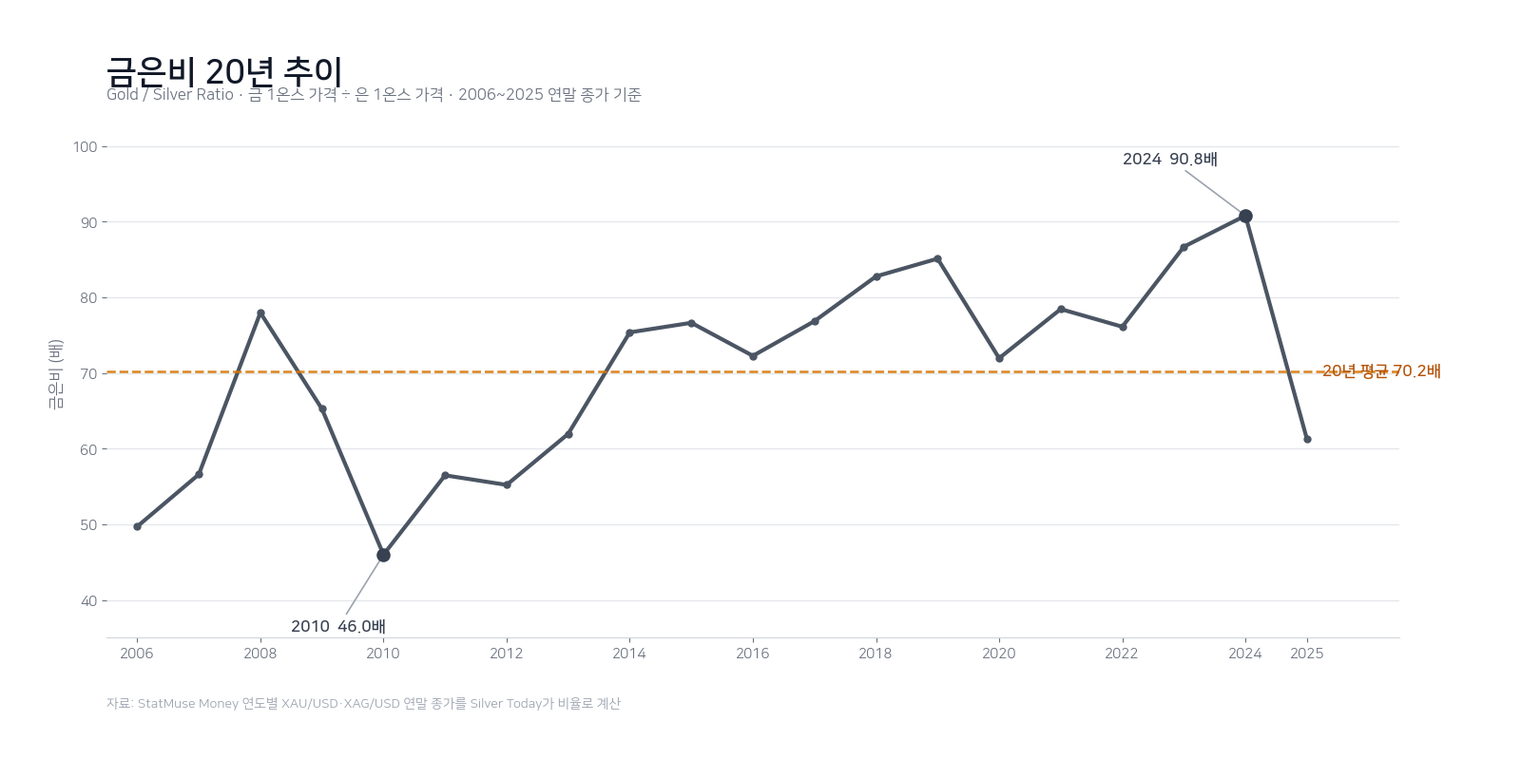
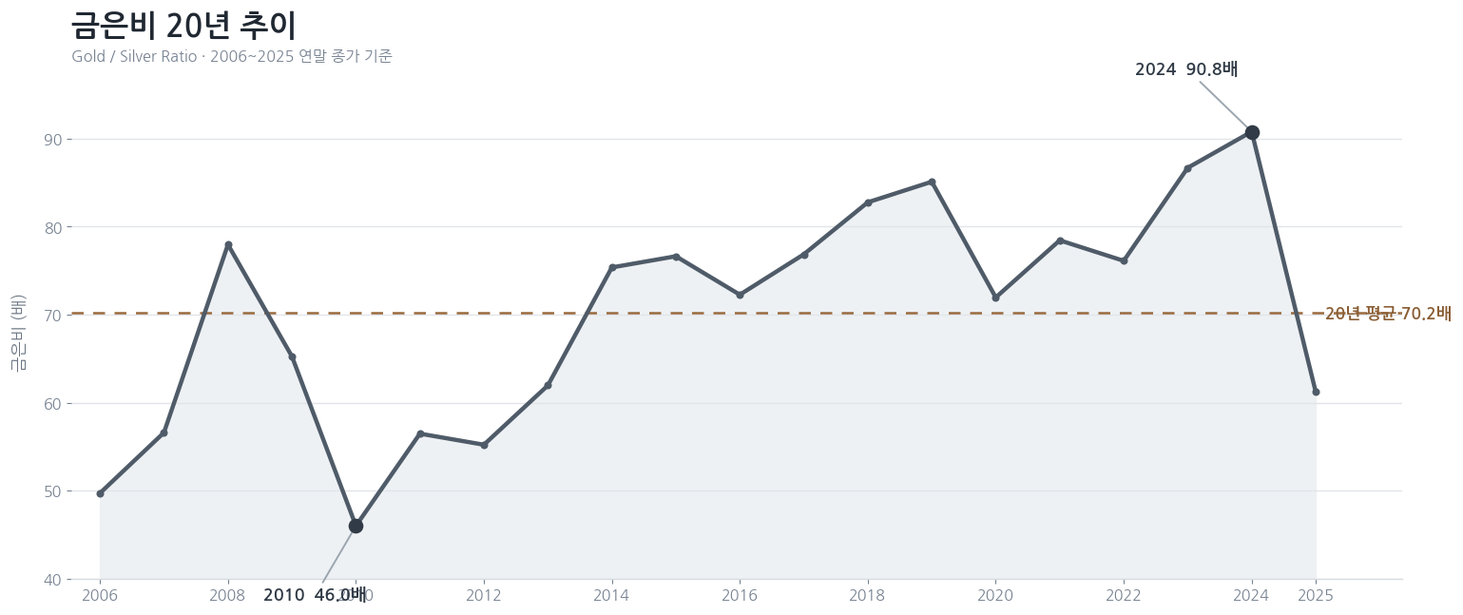
Add files via upload

diff --git a/index.html b/index.html
@@ -1,14 +1,14 @@
 <!DOCTYPE html><html lang="ko"><head><meta charset="UTF-8"><meta name="viewport" content="width=device-width,initial-scale=1.0">
 <meta name="naver-site-verification" content="7abe1a38036b67a5e8ea541d7a32755246369bef" />
 <title>오늘 은시세 | 실버바 100g·500g·1kg 가격·최대낙폭·은 ETF</title><meta name="description" content="오늘 은 1돈과 실버바 100g·500g·1kg 환산가격, 부가세 체감가, 은 최대낙폭, 금·은 장기수익률과 ETF 정보를 확인하세요."><meta name="robots" content="index,follow">
-<link rel="canonical" href="https://silver-today.com/"><meta property="og:type" content="website"><meta property="og:locale" content="ko_KR"><meta property="og:title" content="오늘 은시세 | 실버바 100g·500g·1kg 가격·최대낙폭·은 ETF"><meta property="og:description" content="오늘 은 1돈과 실버바 100g·500g·1kg 환산가격, 부가세 체감가, 은 최대낙폭, 금·은 장기수익률과 ETF 정보를 확인하세요."><meta property="og:url" content="https://silver-today.com/"><link rel="stylesheet" href="/styles.css?v=20260826-8"></head><body>
+<link rel="canonical" href="https://silver-today.com/"><meta property="og:type" content="website"><meta property="og:locale" content="ko_KR"><meta property="og:title" content="오늘 은시세 | 실버바 100g·500g·1kg 가격·최대낙폭·은 ETF"><meta property="og:description" content="오늘 은 1돈과 실버바 100g·500g·1kg 환산가격, 부가세 체감가, 은 최대낙폭, 금·은 장기수익률과 ETF 정보를 확인하세요."><meta property="og:url" content="https://silver-today.com/"><link rel="stylesheet" href="/styles.css?v=20260828-39"></head><body class="home-page">
 <header class="site-header"><div class="wrap nav"><a class="brand" href="/">오늘 <span>은시세</span></a><nav class="navlinks"><a href="/silver-risk.html">은 위험·수익률</a><a href="/wall-street-indicators.html">월가 지표</a><a href="/silver-etf.html">은 ETF·ETN</a><a href="/silver-calculator.html">계산기</a></nav></div></header>
 <main class="wrap">
-<section class="hero"><h1>오늘 은값,<br>가격부터 위험까지 한눈에</h1><p class="lead">국제 은시세를 원화로 환산하고, 장기 최대낙폭·금과의 비교·은 투자상품까지 함께 봅니다.</p><div class="hero-note">현재 시세는 최대 1시간, 기간별 통계는 하루~이틀 간격으로 갱신되며 이전 정상 데이터를 보존합니다 · 국제시세 환산 참고가격 · 실물 거래가는 부가세·공임 등으로 달라질 수 있습니다.</div>
+<section class="hero home-hero"><div class="hero-kicker"><span class="hero-kicker-dot"></span>SILVER TODAY · LIVE MARKET</div><h1>오늘 은값,<br>가격부터 위험까지 한눈에</h1><p class="lead">국제 은시세를 원화로 환산하고, 장기 최대낙폭·금과의 비교·은 투자상품까지 함께 봅니다.</p><div class="hero-note">현재 시세는 최대 1시간, 기간별 통계는 하루~이틀 간격으로 갱신되며 이전 정상 데이터를 보존합니다 · 국제시세 환산 참고가격 · 실물 거래가는 부가세·공임 등으로 달라질 수 있습니다.</div>
 <nav class="chips"><a class="chip" href="#risk">최대낙폭</a><a class="chip" href="#gold-silver">금 vs 은</a><a class="chip" href="#fed">미국 금리인상기</a><a class="chip" href="/wall-street-indicators.html">월가 지표</a><a class="chip" href="/silver-etf.html">은 ETF·ETN</a><a class="chip" href="#calculator">계산기</a></nav></section>
 
-<section id="today" class="grid">
-<article class="card wide"><div class="eyebrow">오늘의 은 가격 · 원화 환산</div><div class="price-hero"><div class="soft"><div class="label">은 1돈 · 3.75g</div><div id="priceDonHero" class="big">불러오는 중</div><div class="small muted">국제 은가격 × 원·달러 환율 · 부가세/공임 미포함</div></div><div class="soft"><div class="label">오늘 한눈에</div><div id="snapshotText" class="value" style="font-size:18px">변동률 계산 중</div><div id="apiStatus" class="api-status">데이터 연결 중</div></div></div>
+<section id="today" class="grid home-today">
+<article class="card wide market-card"><div class="eyebrow">오늘의 은 가격 · 원화 환산</div><div class="price-hero"><div class="soft"><div class="label">은 1돈 · 3.75g</div><div id="priceDonHero" class="big">불러오는 중</div><div class="small muted">국제 은가격 × 원·달러 환율 · 부가세/공임 미포함</div></div><div class="soft"><div class="label">오늘 한눈에</div><div id="snapshotText" class="value" style="font-size:18px">변동률 계산 중</div><div id="apiStatus" class="api-status">데이터 연결 중</div></div></div>
 <div class="metrics"><div class="metric"><small>1일</small><strong id="change1d">—</strong></div><div class="metric"><small>1주</small><strong id="change1w">—</strong></div><div class="metric"><small>1개월</small><strong id="change1m">—</strong></div><div class="metric"><small>1년</small><strong id="change1y">—</strong></div></div>
 <div class="bar-section"><div class="section-head"><div><div class="label">실버바 기준 환산가격</div><div class="small muted">국내에서 많이 보는 100g · 500g · 1kg 기준</div></div><a class="chip" href="/silver-bar-guide.html">실버바 가격 구조 →</a></div>
 <div class="bar-grid">
@@ -29,25 +29,25 @@
 <div class="source source-inline"><span class="source-row">국제 은시세 <strong id="xagPrice">—</strong>/oz · USD/KRW <strong id="usdKrw">—</strong></span><span class="source-row">최근 업데이트 <span id="updatedAt">—</span></span></div></article>
 </section>
 
-<section class="section"><div class="kicker">WHY SILVER TODAY</div><h2>은값 숫자 하나보다, 실제 투자자가 궁금한 다음 질문까지</h2><div class="insight-strip"><a class="insight" href="/silver-bar-guide.html"><strong>실버바 실제 구매가는 왜 더 비쌀까?</strong><span>국제시세 → 부가세 10% → 판매마진 구조</span></a><a class="insight" href="/silver-risk.html"><strong>은은 과거에 얼마나 크게 빠졌을까?</strong><span>5·10·20년 최대낙폭과 고점·저점</span></a><a class="insight" href="/silver-vs-gold.html"><strong>금과 은, 장기 보유 결과는 달랐을까?</strong><span>수익률뿐 아니라 MDD까지 같은 기준으로 비교</span></a></div></section><section class="section wallstreet-cta-wrap"><a class="wallstreet-feature" href="/wall-street-indicators.html"><div><span class="wallstreet-label">월가 지표 7가지</span><strong>금·은 가격과 함께 보는 시장 지표</strong><span>금은비 · 실질금리 · 달러 · CFTC · ETF 흐름 · 은 재고</span></div><b>월가 지표 보기 →</b></a></section><section id="risk" class="section"><div class="section-head"><div><div class="eyebrow">SILVER RISK</div><h2>은은 과거에 얼마나 크게 <span class="keep-word">떨어졌을까?</span></h2></div><a class="chip" href="/silver-risk.html">자세히 보기 →</a></div>
+<section class="section story-section"><div class="kicker">WHY SILVER TODAY</div><h2>은값 숫자 하나보다, 실제 투자자가 궁금한 다음 질문까지</h2><div class="insight-strip"><a class="insight" href="/silver-bar-guide.html"><strong>실버바 실제 구매가는 왜 더 비쌀까?</strong><span>국제시세 → 부가세 10% → 판매마진 구조</span></a><a class="insight" href="/silver-risk.html"><strong>은은 과거에 얼마나 크게 빠졌을까?</strong><span>5·10·20년 최대낙폭과 고점·저점</span></a><a class="insight" href="/silver-vs-gold.html"><strong>금과 은, 장기 보유 결과는 달랐을까?</strong><span>수익률뿐 아니라 MDD까지 같은 기준으로 비교</span></a></div></section><section class="section wallstreet-cta-wrap"><a class="wallstreet-feature" href="/wall-street-indicators.html"><div><span class="wallstreet-label">월가 지표 7가지</span><strong>금·은 가격과 함께 보는 시장 지표</strong><span>금은비 · 실질금리 · 달러 · CFTC · ETF 흐름 · 은 재고</span></div><b>월가 지표 보기 →</b></a></section><section id="risk" class="section risk-section home-panel"><div class="section-head"><div><div class="eyebrow">SILVER RISK</div><h2>은은 과거에 얼마나 크게 <span class="keep-word">떨어졌을까?</span></h2></div><a class="chip" href="/silver-risk.html">자세히 보기 →</a></div>
 <p>최대낙폭(MDD)은 특정 기간의 고점에서 이후 저점까지 가장 크게 하락한 비율입니다. 수익률과 함께 보면 은의 변동성을 더 현실적으로 이해할 수 있습니다.</p>
 <div class="risk-cards"><div class="risk"><span class="label">최근 5년 최대낙폭</span><strong id="mdd5">계산 중</strong><span id="mdd5date" class="small muted">—</span></div><div class="risk"><span class="label">최근 10년 최대낙폭</span><strong id="mdd10">계산 중</strong><span id="mdd10date" class="small muted">—</span></div><div class="risk"><span class="label">최근 20년 최대낙폭</span><strong id="mdd20">계산 중</strong><span id="mdd20date" class="small muted">—</span></div></div>
 <div class="method-note">계산 기준: XAG/USD 일별 평균가격에서 각 기간의 이전 고점 대비 이후 저점의 최대 하락률을 계산합니다. 데이터 빈도·종가/평균가 기준에 따라 다른 사이트와 수치가 조금 다를 수 있습니다. <a href="/silver-risk.html" style="text-decoration:underline">계산법 자세히 보기</a></div></section>
 
-<section id="gold-silver" class="section"><div class="section-head"><div><div class="eyebrow">GOLD VS SILVER</div><h2>20년간 금과 은, 누가 더 올랐을까?</h2></div><div class="tabs"><button class="tab compare-range" data-years="5">5년</button><button class="tab compare-range" data-years="10">10년</button><button class="tab compare-range active" data-years="20">20년</button></div></div>
+<section id="gold-silver" class="section compare-section home-panel"><div class="section-head"><div><div class="eyebrow">GOLD VS SILVER</div><h2>20년간 금과 은, 누가 더 올랐을까?</h2></div><div class="tabs"><button class="tab compare-range" data-years="5">5년</button><button class="tab compare-range" data-years="10">10년</button><button class="tab compare-range active" data-years="20">20년</button></div></div>
 <div class="risk-cards"><div class="risk"><span class="label">은 누적 변화</span><strong id="silverReturn">—</strong></div><div class="risk"><span class="label">금 누적 변화</span><strong id="goldReturn">—</strong></div><div class="risk"><span class="label">변동성 힌트</span><strong id="riskCompare" style="font-size:18px">—</strong></div></div>
 <div class="read-next"><a class="chip" href="/silver-vs-gold.html">금 vs 은 비교 해설 읽기 →</a></div><div class="chartbox"><canvas id="compareChart" aria-label="금과 은 장기 누적수익률 비교 차트"></canvas><div class="legend"><span><i class="dot silver"></i>은</span><span><i class="dot gold"></i>금</span><span>시작값=100</span></div></div></section>
 
-<section id="fed" class="section"><div class="eyebrow">FED RATE-HIKE CYCLES</div><h2>미국 금리인상기, 금과 은은 어떻게 움직였을까?</h2><p>각 금리인상 사이클 시작값을 100으로 맞춰 금·은의 가격 변화를 비교합니다. “금리 인상 = 귀금속 무조건 하락”이라는 단순한 가정이 실제로 맞았는지 확인할 수 있습니다.</p>
+<section id="fed" class="section fed-section home-panel"><div class="eyebrow">FED RATE-HIKE CYCLES</div><h2>미국 금리인상기, 금과 은은 어떻게 움직였을까?</h2><p>각 금리인상 사이클 시작값을 100으로 맞춰 금·은의 가격 변화를 비교합니다. “금리 인상 = 귀금속 무조건 하락”이라는 단순한 가정이 실제로 맞았는지 확인할 수 있습니다.</p>
 <div class="tabs"><button class="tab fed-cycle" data-cycle="2004-2006">2004~2006</button><button class="tab fed-cycle" data-cycle="2015-2018">2015~2018</button><button class="tab fed-cycle active" data-cycle="2022-2023">2022~2023</button></div>
 <div class="chartbox"><div id="fedSummary" class="small muted">데이터 계산 중</div><canvas id="fedChart" aria-label="미국 금리인상기 금과 은 비교 차트"></canvas><div class="legend"><span><i class="dot silver"></i>은</span><span><i class="dot gold"></i>금</span><span>사이클 시작=100</span></div></div>
 <div class="source">금리인상 구간은 미국 연방준비제도(Federal Reserve) 공식 금리 변경일을 기준으로 구분했습니다.</div><div class="read-next"><a class="chip" href="/fed-silver-gold.html">금리인상기 금·은 분석 전체 보기 →</a></div></section>
 
-<section id="gold-silver-ratio" class="section ratio-section">
+<section id="gold-silver-ratio" class="section ratio-section home-panel ratio-panel">
   <div class="section-head"><div><div class="eyebrow">GOLD / SILVER RATIO</div><h2>금 1온스로 은을 몇 온스 살 수 있을까?</h2></div><a class="chip" href="/wall-street-indicators.html">월가 지표 전체 보기 →</a></div>
   <p>금은비는 <strong>금 1온스 가격 ÷ 은 1온스 가격</strong>으로 계산합니다. 비율이 높을수록 같은 금 1온스로 더 많은 은을 살 수 있다는 뜻으로, 은이 금보다 상대적으로 약했던 구간을 확인할 때 쓰입니다.</p>
   <div class="ratio-chart-card">
-    <img src="/assets/gold-silver-ratio-20y.png" alt="2006년부터 2025년까지 금은비 20년 추이 차트" loading="lazy" width="1600" height="819">
+    <img src="/assets/gold-silver-ratio-20y.png?v=20260828-39" alt="2006년부터 2025년까지 금은비 20년 추이 차트" loading="lazy" width="1539" height="647">
     <div class="ratio-stats">
       <div><span>20년 평균</span><strong>70.2배</strong></div>
       <div><span>연말 기준 최고</span><strong>90.8배 <small>2024</small></strong></div>
@@ -58,12 +58,12 @@
   </div>
 </section>
 
-<section class="section"><div class="section-head"><div><div class="eyebrow">HOW TO INVEST</div><h2>은에 투자하는 방법</h2></div><a class="chip" href="/silver-etf.html">국내·미국 상품 전체 가이드 →</a></div>
+<section class="section invest-section"><div class="section-head"><div><div class="eyebrow">HOW TO INVEST</div><h2>은에 투자하는 방법</h2></div><a class="chip" href="/silver-etf.html">국내·미국 상품 전체 가이드 →</a></div>
 <div class="page-links"><a class="page-link" href="/silver-etf.html"><strong>국내 ETF·ETN</strong><span>KODEX 은선물(H), 레버리지·인버스 ETN 등</span></a><a class="page-link" href="/silver-etf.html#us"><strong>미국 은 ETF·Trust</strong><span>SLV, SIVR, PSLV, AGQ, ZSL, SIL, SILJ 등</span></a><a class="page-link" href="/silver-risk.html"><strong>은 투자 위험</strong><span>최대낙폭·금과의 장기 비교·금리인상기</span></a></div></section>
 
-<section id="calculator" class="section card"><div class="eyebrow">SILVER CALCULATOR</div><h2>은값 계산기</h2><p>오늘 국제시세 환산 기준으로 원하는 무게의 은값을 계산합니다.</p><div class="calc-row"><input id="amount" type="number" value="1" min="0" step="0.1" aria-label="수량"><select id="unit" aria-label="단위"><option value="3.75">돈</option><option value="1">g</option><option value="100">100g</option><option value="1000">kg</option></select><button id="calculateBtn">계산</button></div><div class="result">예상 환산가격 <strong id="calcValue">시세 로딩 중</strong></div></section>
+<section id="calculator" class="section card calculator-card"><div class="eyebrow">SILVER CALCULATOR</div><h2>은값 계산기</h2><p>오늘 국제시세 환산 기준으로 원하는 무게의 은값을 계산합니다.</p><div class="calc-row"><input id="amount" type="number" value="1" min="0" step="0.1" aria-label="수량"><select id="unit" aria-label="단위"><option value="3.75">돈</option><option value="1">g</option><option value="100">100g</option><option value="1000">kg</option></select><button id="calculateBtn">계산</button></div><div class="result">예상 환산가격 <strong id="calcValue">시세 로딩 중</strong></div></section>
 
-<section class="section"><h2>Silver Today가 보여주는 것</h2><p>단순히 오늘 은값만 표시하지 않습니다. 은 1돈·100g·500g·1kg 환산가격, 장기 최대낙폭, 금과 은의 장기 성과, 미국 금리인상기 움직임, 국내·미국 은 투자상품을 한곳에서 확인할 수 있도록 구성했습니다.</p><div class="notice">※ 모든 가격과 분석은 정보 제공용입니다. 실제 실버바 가격에는 부가가치세, 제조·가공비, 유통비, 판매처 마진 등이 포함될 수 있습니다. ETF·ETN은 상품 구조, 환율, 롤오버, 괴리율, 레버리지 효과 등에 따라 은 현물과 다른 성과가 날 수 있습니다.</div></section>
+<section class="section quiet-section"><h2>Silver Today가 보여주는 것</h2><p>단순히 오늘 은값만 표시하지 않습니다. 은 1돈·100g·500g·1kg 환산가격, 장기 최대낙폭, 금과 은의 장기 성과, 미국 금리인상기 움직임, 국내·미국 은 투자상품을 한곳에서 확인할 수 있도록 구성했습니다.</p><div class="notice">※ 모든 가격과 분석은 정보 제공용입니다. 실제 실버바 가격에는 부가가치세, 제조·가공비, 유통비, 판매처 마진 등이 포함될 수 있습니다. ETF·ETN은 상품 구조, 환율, 롤오버, 괴리율, 레버리지 효과 등에 따라 은 현물과 다른 성과가 날 수 있습니다.</div></section>
 </main>
 
 <footer class="footer"><div class="wrap">

diff --git a/styles.css b/styles.css
@@ -97,3 +97,121 @@ input,select,button{font:inherit;border-radius:12px;border:1px solid var(--line)
   .ratio-stats{grid-template-columns:1fr}
   .ratio-read{grid-template-columns:1fr;gap:4px}
 }
+
+/* V39 visual polish · 2026-08-28
+   Goal: keep Silver Today calm and trustworthy while adding stronger visual rhythm.
+   JS DOM IDs and API behavior are intentionally untouched. */
+body.home-page{background:linear-gradient(180deg,#f7f8f9 0,#f4f6f8 420px,#f4f6f8 100%)}
+.home-page .site-header{position:relative;z-index:5}
+.home-page .site-header .nav{padding:7px 0}
+.home-page .brand{font-size:17px}.home-page .navlinks a{transition:color .18s ease}.home-page .navlinks a:hover{color:var(--text)}
+
+.home-hero{position:relative;overflow:hidden;margin-top:12px;padding:38px 34px 28px;border:1px solid #dfe4e9;border-radius:28px;background:linear-gradient(122deg,#ffffff 0%,#edf1f4 53%,#fafbfc 100%);box-shadow:0 20px 55px rgba(29,39,49,.07)}
+.home-hero:after{content:"";position:absolute;right:-90px;top:-150px;width:360px;height:360px;border-radius:50%;background:radial-gradient(circle at 35% 35%,rgba(255,255,255,.95),rgba(187,196,205,.24) 38%,rgba(255,255,255,0) 70%);pointer-events:none}
+.home-hero>*{position:relative;z-index:1}
+.hero-kicker{display:flex;align-items:center;gap:7px;margin-bottom:12px;color:#64707c;font-size:11px;font-weight:950;letter-spacing:.12em}
+.hero-kicker-dot{width:7px;height:7px;border-radius:50%;background:#66717e;box-shadow:0 0 0 4px rgba(102,113,126,.11)}
+.home-hero h1{max-width:720px;font-size:clamp(36px,6vw,54px);letter-spacing:-2.1px}
+.home-hero .lead{max-width:720px;font-size:15px;line-height:1.6;color:#505b67}
+.home-hero .hero-note{max-width:820px;line-height:1.55;color:#7a8490}
+.home-hero .chips{padding-top:20px}
+.home-hero .chip{background:rgba(255,255,255,.72);border-color:rgba(205,212,219,.9);backdrop-filter:blur(5px)}
+.home-hero .chip:hover{background:#fff;border-color:#bfc7cf}
+
+.home-today{margin-top:18px}
+.market-card{position:relative;overflow:hidden;border-color:#dfe4e8;box-shadow:0 20px 55px rgba(30,41,52,.08);padding:22px}
+.market-card:before{content:"";position:absolute;left:0;right:0;top:0;height:4px;background:linear-gradient(90deg,#c9d0d7,#66717e 48%,#dce1e6)}
+.market-card .price-hero>.soft:first-child{position:relative;overflow:hidden;background:linear-gradient(135deg,#242b33,#3d4854);color:#fff;box-shadow:inset 0 1px rgba(255,255,255,.08)}
+.market-card .price-hero>.soft:first-child:after{content:"";position:absolute;right:-46px;top:-72px;width:170px;height:170px;border-radius:50%;border:28px solid rgba(255,255,255,.045)}
+.market-card .price-hero>.soft:first-child .label,.market-card .price-hero>.soft:first-child .muted{color:#cbd2d9}
+.market-card .price-hero>.soft:first-child .big{margin-top:2px;text-shadow:0 1px 0 rgba(0,0,0,.08)}
+.market-card .price-hero>.soft:nth-child(2){background:#f1f3f5;border:1px solid #e4e8ec}
+.market-card .metric{border:1px solid #e6eaee;background:#fafbfc}
+.market-card .metric strong{font-size:17px}
+.bar-card{border:1px solid transparent;transition:transform .18s ease,border-color .18s ease,background .18s ease}
+.bar-card:hover{transform:translateY(-1px);border-color:#d9dee4;background:#f8fafb}
+.premium-card{background:linear-gradient(135deg,#fbfcfd,#f0f3f6);border-color:#dfe4e9}
+.premium-highlight{background:linear-gradient(135deg,#fff4e6,#ffecd2);box-shadow:inset 0 0 0 1px rgba(226,166,93,.08)}
+
+.story-section{margin-top:38px}
+.story-section .kicker{color:#56616d}
+.story-section h2{max-width:720px;font-size:27px;line-height:1.28}
+.insight{position:relative;min-height:95px;padding:18px 42px 18px 18px;transition:transform .18s ease,box-shadow .18s ease,border-color .18s ease}
+.insight:after{content:"→";position:absolute;right:17px;top:50%;transform:translateY(-50%);color:#9099a3;font-weight:900}
+.insight:hover{transform:translateY(-2px);border-color:#cbd2d9;box-shadow:0 12px 24px rgba(29,39,49,.06)}
+
+.wallstreet-cta-wrap{margin:30px 0 32px}
+.wallstreet-feature{position:relative;overflow:hidden;background:linear-gradient(125deg,#20262d 0%,#303944 62%,#46515d 100%);color:#fff;border:0;box-shadow:0 18px 42px rgba(25,34,43,.16);padding:24px 26px}
+.wallstreet-feature:after{content:"";position:absolute;width:220px;height:220px;border-radius:50%;right:-85px;top:-115px;border:34px solid rgba(255,255,255,.035)}
+.wallstreet-feature>div,.wallstreet-feature>b{position:relative;z-index:1}
+.wallstreet-feature strong{font-size:21px;letter-spacing:-.5px}
+.wallstreet-feature span{color:#cbd2da}
+.wallstreet-feature .wallstreet-label{color:#dce2e8;background:rgba(255,255,255,.09);border:1px solid rgba(255,255,255,.09)}
+.wallstreet-feature>b{color:#fff;font-size:13px}
+.wallstreet-feature:hover{border-color:transparent;transform:translateY(-2px);box-shadow:0 22px 48px rgba(25,34,43,.2)}
+
+.home-panel{position:relative;margin:34px 0;padding:28px;border-radius:24px}
+.risk-section{background:linear-gradient(135deg,#edf1f4,#f8fafb);border:1px solid #e0e5ea}
+.risk-section .risk{background:rgba(255,255,255,.86);border-color:#dfe4e9;box-shadow:0 8px 20px rgba(29,39,49,.035)}
+.risk-section .risk strong{font-size:32px;line-height:1.15;margin:4px 0}
+.risk-section .method-note{margin-top:12px;background:rgba(255,255,255,.65)}
+
+.compare-section{background:#fff;border:1px solid #e2e6ea;box-shadow:0 14px 35px rgba(29,39,49,.045)}
+.compare-section .risk{position:relative;overflow:hidden;background:#f8fafb}
+.compare-section .risk:nth-child(1):before,.compare-section .risk:nth-child(2):before{content:"";position:absolute;left:0;right:0;top:0;height:3px}
+.compare-section .risk:nth-child(1):before{background:#98a2ad}
+.compare-section .risk:nth-child(2):before{background:#b89556}
+.compare-section .chartbox{margin-top:16px}
+
+.fed-section{padding:28px 28px 30px;border-top:1px solid #dfe4e8;border-bottom:1px solid #dfe4e8;border-radius:0;background:linear-gradient(90deg,rgba(235,239,243,.45),rgba(255,255,255,.15),rgba(235,239,243,.45))}
+.fed-section>p{max-width:790px}
+.fed-section .tabs{margin-top:14px}
+
+.ratio-panel{background:linear-gradient(145deg,#252c34,#3a4550);color:#fff;border:0;box-shadow:0 18px 44px rgba(25,34,43,.14)}
+.ratio-panel .eyebrow{color:#bec7d0}.ratio-panel h2{color:#fff}.ratio-panel>p{color:#d4d9df}.ratio-panel>p strong{color:#fff}
+.ratio-panel .chip{background:rgba(255,255,255,.08);border-color:rgba(255,255,255,.15);color:#fff}
+.ratio-chart-card{background:#f9fafb;border:0;box-shadow:none;color:var(--text);padding:12px}
+.ratio-chart-card img{border:1px solid #e7eaee;background:#fff}
+.ratio-stats>div{background:#eef1f4}
+.ratio-read{background:#fff;border-left-color:#8b96a1}
+
+.invest-section{margin-top:36px}
+.invest-section .page-link{position:relative;transition:transform .18s ease,border-color .18s ease,box-shadow .18s ease}
+.invest-section .page-link:hover{transform:translateY(-2px);border-color:#cbd2d9;box-shadow:0 10px 24px rgba(29,39,49,.05)}
+.calculator-card{background:linear-gradient(135deg,#fff,#eef2f5);border-color:#dfe4e8;box-shadow:none}
+.quiet-section{padding:22px 0 8px;border-top:1px solid #dfe4e8}
+.quiet-section h2{font-size:20px;color:#323a43}.quiet-section p{font-size:13px;line-height:1.7}.quiet-section .notice{background:#eef1f4;border:1px solid #e0e5e9}
+
+@media(max-width:720px){
+  .home-hero{margin-top:8px;padding:27px 20px 20px;border-radius:22px}
+  .home-hero:after{right:-145px;top:-175px}
+  .home-hero h1{font-size:37px;line-height:1.1;letter-spacing:-1.6px}
+  .home-hero .lead{font-size:14px}
+  .home-hero .hero-note{font-size:11px}
+  .market-card{padding:15px;border-radius:20px}
+  .market-card .price-hero>.soft:first-child{padding:18px 16px}
+  .market-card .price-hero>.soft:first-child .big{font-size:39px}
+  .story-section{margin-top:30px}.story-section h2{font-size:23px}
+  .insight{min-height:auto;padding:16px 40px 16px 16px}
+  .wallstreet-feature{display:block;padding:20px}
+  .wallstreet-feature strong{font-size:19px;line-height:1.3}
+  .wallstreet-feature>b{margin-top:14px}
+  .home-panel{margin:28px 0;padding:21px 16px;border-radius:20px}
+  .risk-section .risk strong{font-size:30px}
+  .fed-section{margin-left:-16px;margin-right:-16px;padding:24px 16px;border-radius:0}
+  .ratio-panel{margin-left:-8px;margin-right:-8px;padding:22px 12px}
+  .ratio-panel .section-head{align-items:flex-start}
+  .ratio-panel .section-head .chip{display:none}
+  .ratio-chart-card{padding:8px}
+  .ratio-chart-card img{border-radius:11px}
+  .quiet-section{padding-top:20px}
+}
+
+@media(prefers-reduced-motion:reduce){.bar-card,.insight,.wallstreet-feature,.invest-section .page-link{transition:none}}
+
+/* V39 mobile overflow guard */
+.calc-row>*{min-width:0}
+@media(max-width:720px){
+  .calc-row{grid-template-columns:minmax(0,1fr) 96px}
+  .calc-row input,.calc-row select,.calc-row button{width:100%;min-width:0}
+}
